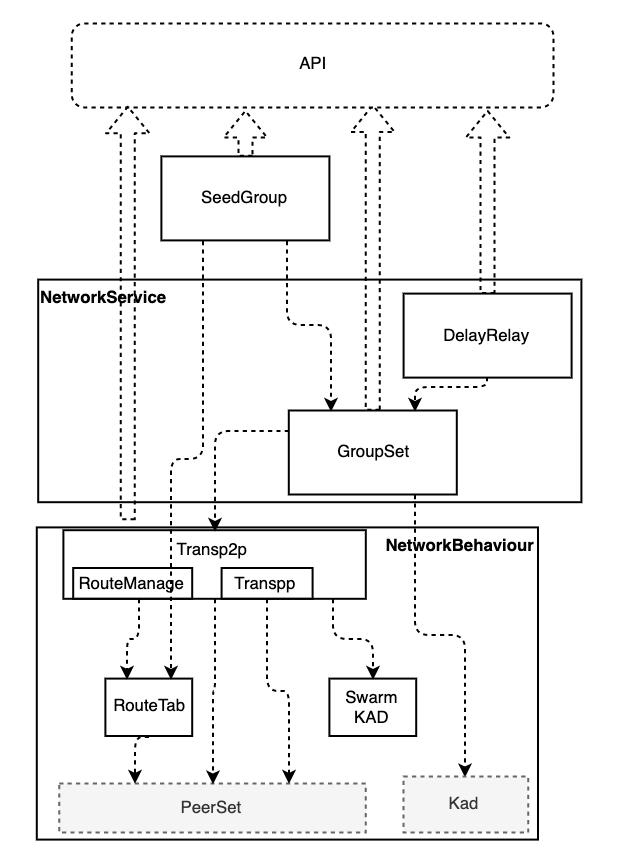
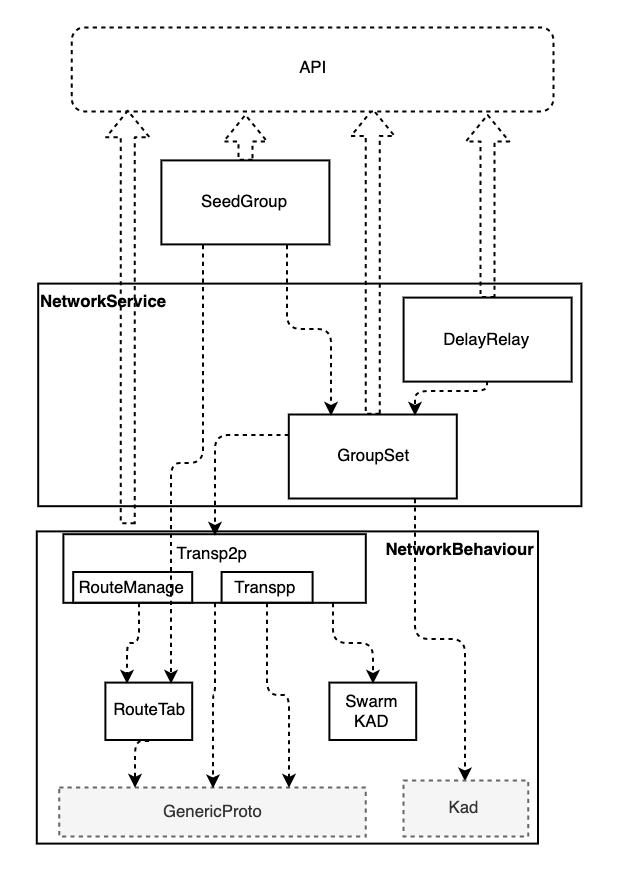
基本完成transp2p和transpp的设计说明

diff --git a/设计说明/网络层设计/详细设计-Transp2p.md b/设计说明/网络层设计/详细设计-Transp2p.md
@@ -2,39 +2,120 @@
 Transp2p模块里包含四个部分：如下图所示：
 ![](transp2p.png)
 从图上可以看到,Transp2p内需要使用RouteTab和SwarmKAD两个对象的实例，完成了RouteManage/Transpp两个特质，并且需要实现NetworkBehaviour特性。
+# Transp2p
+## 数据结构
+```rust 
+#[derive(Debug, Eq, PartialEq,Clone,Encode,Decode)]
+pub struct EnginedData {
+    pub engine_id:ConsensusEngineId,
+    pub date:Vec<u8>,
+}
+pub struct RelayDataWrapper<B:Hash>{
+    pub    routeInfo:FindRouteReq,
+    pub    tags:Vec<u8>,
+    pub    hash:B::Out,
+    pub    data:Option<Arc<RwLock<EnginedData>>,
+    pub    sign_packet:Vec<u8>, 
+}
+```
+## 数据定义：
+### 需要发送的事件队列
+```rust
+    events:Vec<Event>
+```
+由于一个事件的处理可能会产生多个事件（比如说数据转发），因此我们使用events来缓存和记录需要多个待处理的事件。
+### 监听的标识
+```rust
+    monitor_tags:HashSet<String>
+```
+这个是记录监听的标识，数据的标识在monitor_tags中，即使目标地址不是自己，也会获取该数据，并且向应用层汇报
 
-# SwarmKAD
-# RouteTab
-
-# Transpp特质实现
-## 数据定义
 ### 消息队列
 消息队列用于存放需要Transp2p处理的消息
 ```rust
-    events: Vec<mpsc::UnboundedSender<CustomEventOut<B>>>,
+    event_sinks: HashMap<Vec<u8>,Vec<mpsc::UnboundedSender<Transp2pOut<B>> >,
 ```
-### 数据缓存
-数据缓存是哈希/Vec<u8>的映射，用于存放已知的哈希值及其对应的数据，目前第一个版本使用LruCache，未来是否需要使用LruCache+db进行持久化存储？
-```rust
-    data_cache:Mutex(HashMap<hash,Vec<u8>>)
-```
-这个是由Transp2p创建后，在new的时候传入进来的。
-### 读取队列
-读取队列用于记录当前的正在发送请求获取对应数据的哈希值，同时还记录了所有可能具有该数据的节点（从其他节点推送了同样的数据请求）
-```rust
-    retrieving_cache:HashMap<hash,Vec<RelayDataReq>>
-```
+这个是`HashMap<engine_id,tx>`的对象，当数据到达时，通过engine_id分发给相应的事流接收器
 
-### 已汇报队列
-最近的已经向上一层应用汇报过的数据请求，这是为了避免多次处理
+#### 已转发队列
+最近的已经向转发过的中继请求，这是为了避免多次处理
 ```rust
     processed_cache:Hashet<(target,hash))>
 ```
 这里使用的是target,hash，因此需要考虑以下两点：
 1. 如果要求中继的数据是直接数据，也需要生成一下哈希用于记录
 2. 如果有多个节点请求往同一目标节点发送数据，只有第一次的会被转发，后续的会被丢弃
-* 在这种处理模式下，如果第一次数据到达，转发没有成功，第二次再到达时，即使转发是可能成功，也不会再做了。
-### 事件定义
+* 在这种处理模式下，如果第一次数据到达，转发没有成功，第二次再到达时，即使此时转发可能成功，也不会再进行转发动作了。
+
+### 函数定义
+### 函数定义
+#### 新建
+##### 函数签名
+    `new()->Self`
+##### 响应动作
+创建一个对象返回
+####  发送数据
+    发送者使用{engine_id,data} 创建一个对象，放到events中，等待poll读取后，使用send_message进行发送            
+##### 函数签名
+`send_message(targets:Vec<PeerId>, alpha:usize, ttl:usize, tag:Cow<'a,&[u8]>,data:Arc<RwLock<EnginedData>>)`        
+##### 响应动作
+1. 根据targets读取路由表，产生相应的下一跳节点ids
+2. 根据data生成哈希
+3. 生成RelayDataWrapper类型的 relay_req
+   1. 根据data生成哈希
+   2. 生成结果
+4. 使用新的relay_req产生事件放置到events中
+####  设置接收事件流      
+##### 函数签名
+ `register_event_stream( engine_id:Cow<'a,str>)->  mpsc::UnboundedReceiver<Transp2pEvent>` 
+##### 响应动作
+1. 生成一个(tx,rx)对
+2. 在event_sinks中根据engine_id来注册rx
+3. 返回rx 
+####  注册监听的tags      
+##### 函数签名
+  `hook_tags( tags:Cow<'a,str>)->  Cow<'a,str>` 
+##### 响应动作
+1. 用','分割tags,得到多个tag
+2. 向monitor_tags中添加这些tag
+3. 把monitor_tags中所有的tag用','连接，生成字符串返回
+####  清除监听的tags       
+##### 函数签名
+ `remove_tags( tags:Cow<'a,str>)->  Cow<'a,str>` 
+ ##### 响应动作
+ 1. 用','分割tags,得到多个tag
+2. 向monitor_tags中添加这些tag
+3. 把monitor_tags中所有的tag用','连接，生成字符串返回
+
+#### 数据到达
+##### 函数签名
+`proc_data_arrival(DataRelayWrapper)`
+#####  响应动作
+1. 如果(target,hash)已经在processed_cache中，则返回None,
+2. 如果tag在monite_tags列表中，或者targetId是自身，根据engine_id寻找相应的event_stream进行分发
+3. 如果targetId不是自身
+   1. 根据路由表寻找到达这个targetId的所有邻节点
+   2. 生成每个邻节点的转发请求事件，放到events中
+4. 在processed_cache中添加该(target_hash)信息
+
+
+## Transpp特质实现
+### 数据定义
+#### 数据缓存
+数据缓存是哈希/Vec<u8>的映射，用于存放已知的哈希值及其对应的数据，目前第一个版本使用LruCache，未来是否需要使用LruCache+db进行持久化存储？
+```rust
+    data_cache:HashMap<hash,Arc::<RwLock::Vec<u8>>>)
+```
+注意内容是一个Arc::<RwLock::Vec<u8>>>,这是为了不同的线程之间传递消息时，避免对数据进行复制，使用RwLock是由于数据可能被多个线程读取，与Mutex相比，可以读时读取，性能更高一些。  
+由于Vec是在堆上生成的，因此此方式无需考虑生命周期问题
+
+#### 读取队列
+读取队列用于记录当前的正在发送请求获取对应数据的哈希值，同时还记录了所有可能具有该数据的节点（从其他节点推送了同样的数据请求）
+```rust
+    retrieving_cache:HashMap<hash,(Vec<RelayDataReq>,Vec<RelayDataReq>)>
+```
+  哈希映表表是一对元组，前表示当前已经/正在获取数据的节点，后面表示新到达后，还没有查询过是否有哈希对应的数据的节点。
+#### 事件定义
 ```rust
 #[derive(Debug)]
 pub enum TransppEventIn<B:Hash> {
@@ -46,13 +127,14 @@ pub enum TransppEventIn<B:Hash> {
 }
 ```
 
-事件的数据结构
+##### 事件的数据结构
 ```rust 
 #[derive(Debug, Eq, PartialEq,Clone,Encode,Decode)]
 struct RelayDataReq<B:Hash>{
     pub    routeInfo:FindRouteReq,
+    pub    tags:Vec<u8>,
     pub    hash:B::Out,
-    pub    data:Vec<u8>,
+    pub    data:Option<Vec<u8>>,
     pub    sign_packet:Vec<u8>, 
 }
 #[derive(Debug, Eq, PartialEq,Clone,Encode,Decode)]
@@ -65,28 +147,22 @@ pub struct PullDataResp<B:Hash> {
     data: Option<Vec<u8>>,
 }
 ``` 
-## 函数定义
-### 新建
-#### 响应动作
-创建一个对象返回
 
-### 请求发送中继数据
-#### 说明
-#### 函数签名
-#### 响应动作
-如果data比较小
 
-### 网络事件到达
-#### 响应动作
+
+#### 网络事件到达
+##### 响应动作
 匹配事件消息类型，调用相应的函数进行处理：
- 
-### poll
-#### 响应动作
-如果events中有事件，Poll::Ready()此事件，否则返回Poll::Pending
+ * DataRelayReq =>  on_relay_data
+ * PullData => on_pull_data
+ * PushData => on_push_data
+#### poll
+##### 响应动作
+如果events中有事件，如果是RelayReq事件，生成SendEvent事件，并且 Poll::Ready()此事件，否则返回Poll::Pending
 
-### on_relay_data
+#### on_relay_data
 
-#### 响应动作
+##### 响应动作
 1. 检查target/hash对，如果已经在reported_cache中，就结束
 2. 如果data有数据，构建RelayDataArrive（relay_req）放到events中
 3. 在reported_cache中添加该target/hash记录
@@ -94,6 +170,23 @@ pub struct PullDataResp<B:Hash> {
 5. 如果在retrieving_cache中没有该哈希，创建一个哈希和`Vec<relay_req>`的记录，然后
 6. 创建一个`PullDataEvt（PullDataReq{peerId,relay_req.hash>}`的事件，放到events中
 
-### on_pull_data
-#### 响应动作
-1. 如果data_cache中有，
+#### on_pull_data
+##### 响应动作
+1. 如果data_cache中有，生成{hash,Some(value)}的PushData对象，
+2. 如果data_cache中没有，生成{hash,None}的PushData对象
+3. 使用write_notification写入到来源的PeerId中去
+
+#### on_push_data
+##### 响应动作
+1. 如果回应的是{hash,Some(data)}对象，那么
+   1. 数据存入到data_cache
+   2. retrieving_cache中取出哈希所有对应的项，调用并返回on_data_arrival结果
+2. 如果回应的是{hash,None}对象，那么：
+   1. 从retriveing_cache值的self.1号取出第一个元素，如果有
+      1. push到self.0中
+      2. 生成并返回发送给PullData请求事件
+   2. 如果无，返回Poll::None
+
+
+# SwarmKAD
+# RouteTab

diff --git a/设计说明/网络层设计/API定义/NetworkService.md b/设计说明/网络层设计/API定义/NetworkService.md
@@ -1,9 +1,26 @@
 # API 概要
-## Transpp
+## Transp2p
+### 公用数据类型
+```rust
+pub struct Transp2pEvent<'a>{
+   tags:Cow<'a,str>,
+   engine_id:Cow<'a,str>,
+   src:PeerId,
+   target:PeerId,
+   hash:Vec<u8>,
+}
+```
+* tags是该数据帧的标识，一般用于组识别，可以是多个，使用,分开
+* engine_id是数据帧的类型标志，一般用于应用层
+* 这个事件上传时，只上报hash，如果应用层需要使用实际的数据时，调用get_data来获取数据     
+* 两种情况下会上传数据事件：自身地址是target，或者设置了监听相应的tags
+### API 接口
 | 序号 | 名称                 | 函数签名                          |
 |---------|---------------------|----------------------------------|
-| 1   | 发送数据             | `send_message(targets:Vec<PeerId>, alpha:usize, ttl:usize, data:Vec<u8>)`        |
-| 2   | 设置接收事件流         | `register_event_stream( subname:&str)->  mpsc::UnboundedReceiver<TransppEvent>` |
+| 1   | 发送数据             | `send_message(targets:Vec<PeerId>, alpha:usize, ttl:usize, tag:Cow<'a,&[u8]>,engine_id:Cow<'a,&[u8]>,data:Arc<RwLocK<Vec<u8>>>)`        |
+| 2   | 设置接收事件流        | `register_event_stream( tags:Cow<'a,str>)->  mpsc::UnboundedReceiver<Transp2pEvent>` |
+| 3   | 注册监听的tags       | `hook_tags( tags:Cow<'a,str>)->  Cow<'a,str>` |
+| 4   | 清除监听的tags       | `remove_tags( tags:Cow<'a,str>)->  Cow<'a,str>` |
 
 ## Groupset
 
@@ -31,7 +48,7 @@
 
 # 详细描述
 NetworkService是网络层提供给应用层的，包含了在框架中的Transpp和GroupSet两个部分
-## Transpp
+## Transp2p
 ### 发送数据
 #### 功能描述
 发送数据是指向某个特定的PeerId发送消息，这个PeerId可能是邻节点，也可能不是邻节点。如果不是邻节点，会先进行一次路由发现，然后再发送数据。此处并没有发送成功与否的回应，应用在需要时，可以添加发送/回应/超时重发的机制来实现可靠的数据传输。  
@@ -54,12 +71,13 @@ NetworkService是网络层提供给应用层的，包含了在框架中的Transp
 #### 功能描述
 模块通过事件机制向上层汇报信息，需要管理事件的上层应用，需要注册一个事件接收流，当事件发生时，模块向该流推送相应的事件消息
 #### 函数签名
-`register_event_stream(subname:&str)-> mpsc::UnboundedReceiver<TransppEvent>`
+`register_event_stream(tags:Cow<'a,str>)-> mpsc::UnboundedReceiver<TransppEvent>`
 #### 参数
-   subname:一个字符串，用于不用的应用接收不同的流，只有属于该流的事件才会被推送。
+   tags:一个字符串，用于不用的应用接收不同的流，只有属于该流的事件才会被推送。
 #### 返回值
 返回一个mpsc::UnboundedReceiver<TransppEvent>，需要使用future/poll机制来实现数据读取。
-
+#### 附加说明
+tags是需要监控的标识，在两种情况下Transp2p会推送数据
 
 ## GroupSet
 GroupSet通过KAD网络中的Start/Get Provider来实现

diff --git a/设计说明/网络层设计/传输框架设计研究说明.md b/设计说明/网络层设计/传输框架设计研究说明.md
@@ -516,3 +516,21 @@ PushData的数据有可能会比较大，如果不作任何处理，数据从Tra
 ### 方案2：
 把Transpp的功能合并到Transp2p里，这样所有多余的流程全部可以取消了。但是这样会使Transp2p功能更多，没有保持精简。  
 最终方案使用方案2，然后使用rust的trait模式来使Transp2p的实现可以分功能模块实现，以保持简洁性。
+
+# 数据发送过程的路由问题
+当数据无法找到目标节点的路由时，有两种方案，一种是自动发现路由，一种是直接丢弃。 实现中，兼有这两种方式：在传输数据包中有自动发现的标志位，如果该标志位是1，则在没有到目标节点的时候，自动发现。
+
+# 路由攻击：
+由于路由表数量有限，因此可以通过洪水攻击的以下的方式来攻击路由表：
+在节点上生成很多地址A1...Axxx，构造从Ax发出的路由发现请求，然后转发给B，这时候B中会记录目标为A1。。。Axxx的路由，由于每个节点中的路由表项有限，因此可能会导致路由表被这些无效的路由表项占据，为了解决这个问题：
+1. 通过收费方式提高攻击者的成本
+2. 限制同一节点来的数据包速率
+
+# GroupSet设计说明
+在分片网络中，网络被划分成多个分片，反过来说，可能是网络中的某一部分节点属于某个分片，因此分片内的节点有可能互不连接，因此我们采用路由的方案。  
+实际上，分片的节点是通过Start Provider和GetProvider来进行管理的，GetProvider命令读取最多20个节点。而网络组播就是向这20个节点发送数据，在路由过程中，有可能某个路由节点也属于此节点：  
+![](shard_route.png)
+如图，A看到分片节点是C和D，从A到达C/D的路由过程中，会经过B，实际上B也是该分片中的一部分，但是如果不作处理，由于数据是要发送给C/D，因此B是不处理该数据的。对此有两种处理方案：
+1. 不作处理，B会由其他节点传输过来
+2. 在数据传输时，在数据之外加一个标识值，该标识值随着数据一起传输，传输过程中的节点会根据这个标识值决定是否需要在本地处理。
+本系统使用后者。

diff --git a/Substrate代码研究/libp2p研究/libp2p-behaviour.md b/Substrate代码研究/libp2p研究/libp2p-behaviour.md
@@ -281,4 +281,7 @@ Swarm需要三个参数：transport/Behaviour/localid，最后一个很容易理
 一个连接下可以支持多个虚拟子流，这个实现最典型的是KAD网络，因为KAD网络本身不需要支持长连接，所有的Ping/Pong，Find/Resp都是在一段时间后就可以结束。这种情况下，最理想的是使用单次的非流式结构，而libp2p是建立在流式工作的基础上的，为了维护多次的连接，并且降低连接/断开成本，可以使用虚拟子流。
 
 ## 结论
-可以看出，自定义Behaviour/ProtocolsHandler是一件非常复杂的工作，所幸在substrate里，提供了一个GenericProto的类，来简化自定义behaviour的工作
+可以看出，自定义Behaviour/ProtocolsHandler是一件非常复杂的工作，所幸在substrate里，提供了一个GenericProto的类，来简化自定义behaviour的工作。  
+更进一步地，substrate的network层提供了register_notification_protocol的方法来实现更简化的扩展,这个是在protocol层上实现的
+
+# 使用Protocol来扩展
